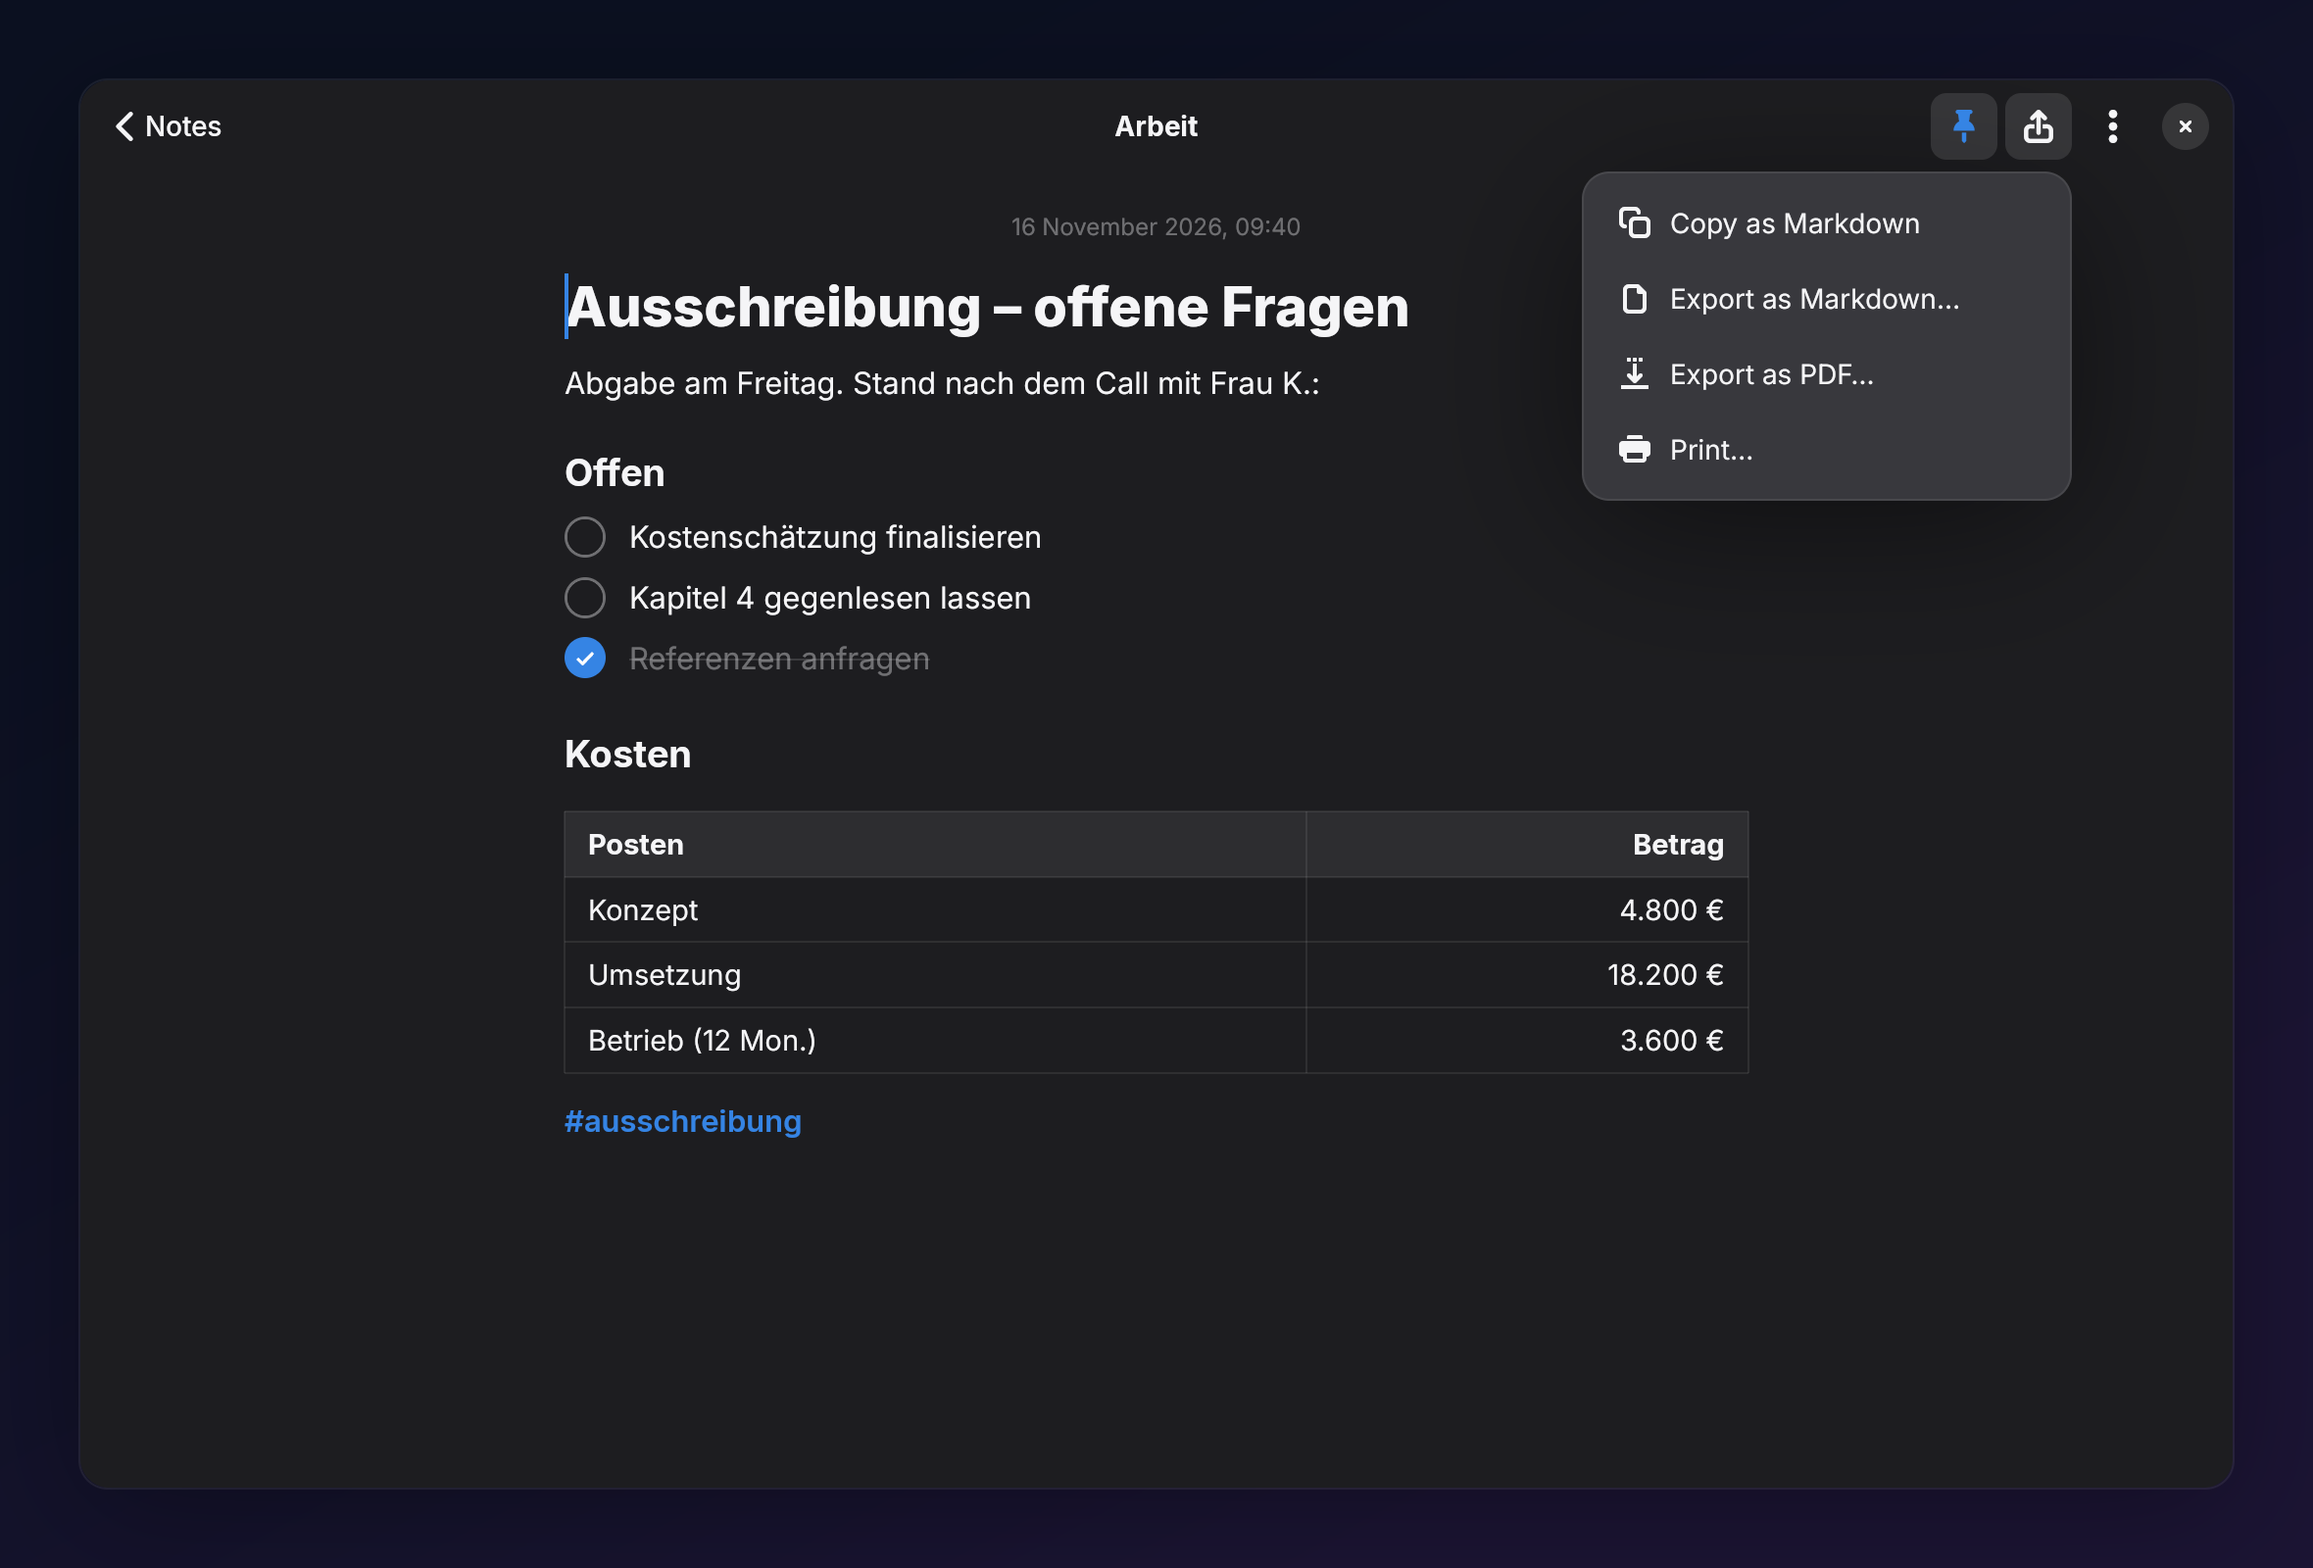
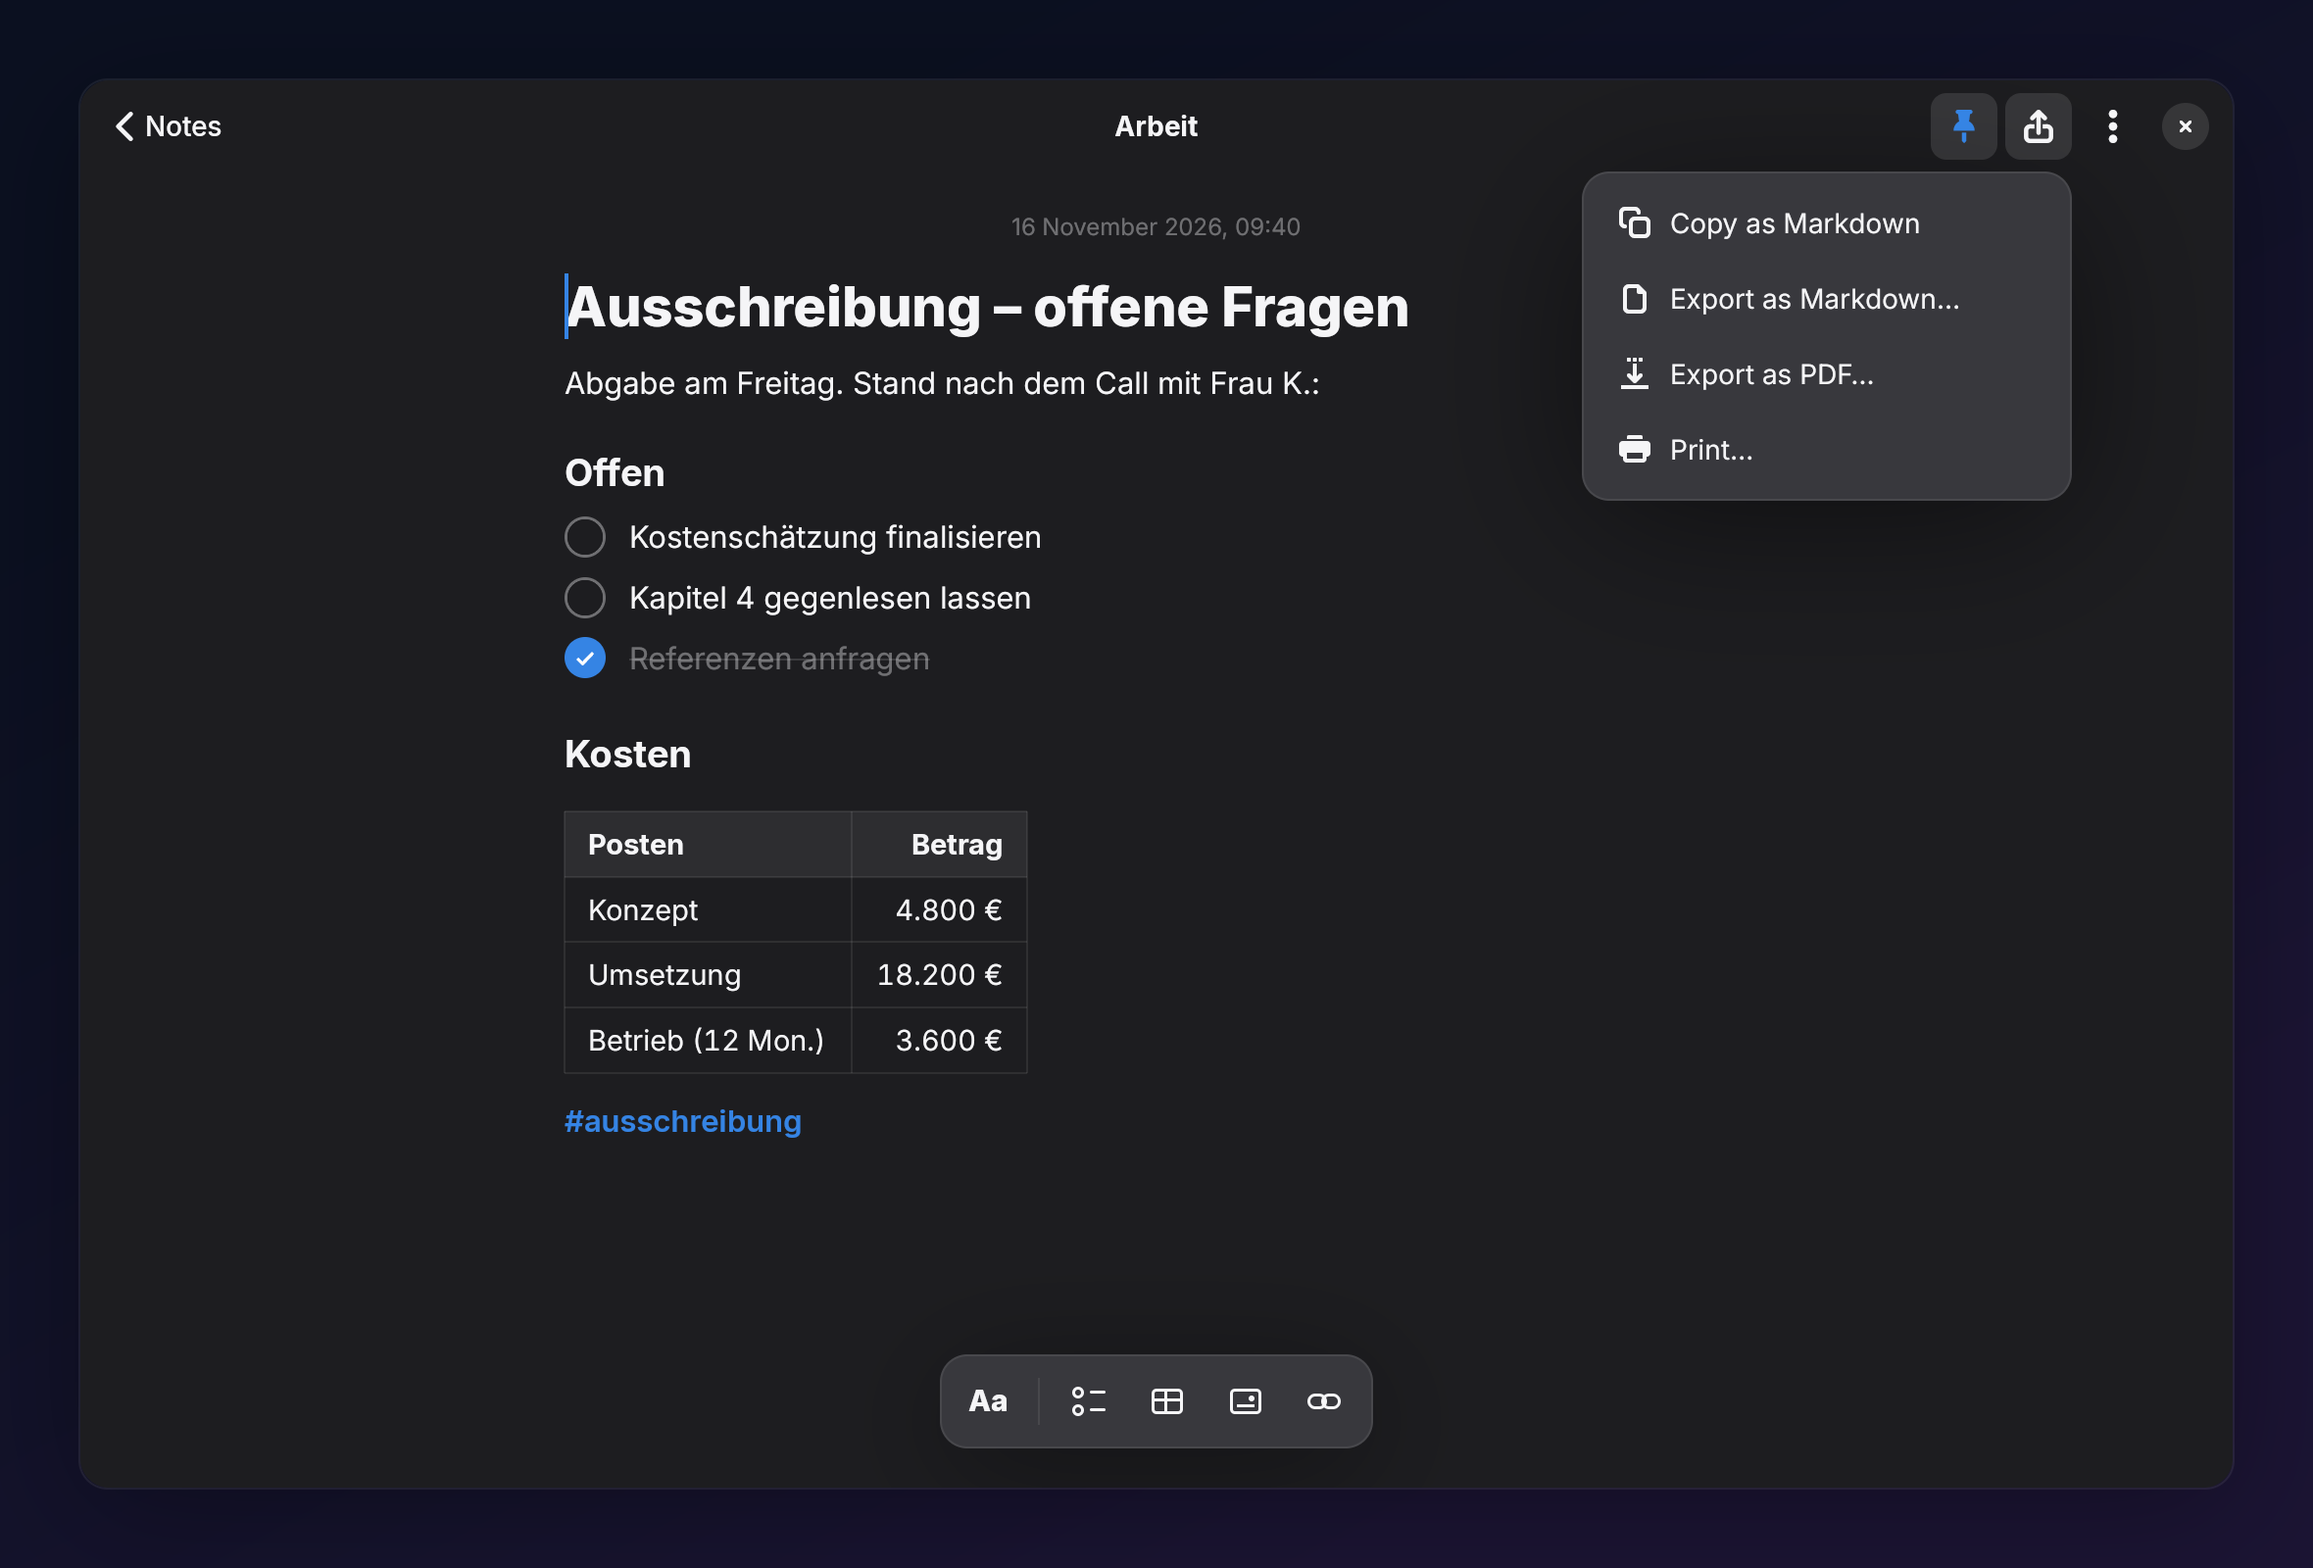
fix(quick): no format bar over the Quick Note's text
The editor's format bar (new in v0.0.4) floated over a third of the
380x300 window; plan 03 §8 wants only the editor and the footer. The
note view gets the editor's UI parts from its owner.

Screenshots: new scenes for the format bar on a selection, the slash
menu, the template menu, an inline image and the find bar; the note
scenes now show the format bar.

diff --git a/crates/sheaf/tests/screenshots.rs b/crates/sheaf/tests/screenshots.rs
@@ -24,12 +24,13 @@ use std::sync::{Arc, OnceLock};
 
 use fixture::{Look, Notes};
 use gpui::{
-    AnyWindowHandle, AppContext as _, BoxShadow, Context, Entity, HeadlessAppContext, IntoElement,
-    ParentElement as _, PlatformTextSystem, Render, Styled as _, Window, div, hsla,
-    linear_color_stop, linear_gradient, point, px, rgb, size,
+    AnyWindowHandle, AppContext as _, BoxShadow, Context, Entity, EntityInputHandler as _,
+    Focusable as _, HeadlessAppContext, IntoElement, ParentElement as _, PlatformTextSystem,
+    Render, Styled as _, Window, div, hsla, linear_color_stop, linear_gradient, point, px, rgb,
+    size,
 };
 use gpui_component::{ActiveTheme as _, Root, Theme};
-use gpui_markdown_editor::Command;
+use gpui_markdown_editor::{Command, MarkdownEditor, TextPos};
 use sheaf::app::actions::{OpenCommandPalette, ShowShortcuts};
 use sheaf::app::assets::Assets;
 use sheaf::app::chrome::AssumeClientDecorations;
@@ -139,6 +140,11 @@ const SCENES: &[(&str, Folder, Scene)] = &[
     ("templates-menu", Folder::Seeded, templates_menu),
     ("note-share", Folder::Seeded, note_share),
     ("note-backlinks", Folder::Seeded, note_backlinks),
+    ("note-format-bar", Folder::Seeded, note_format_bar),
+    ("note-slash", Folder::Seeded, note_slash),
+    ("note-template", Folder::Seeded, note_template),
+    ("note-image", Folder::Seeded, note_image),
+    ("note-find", Folder::Seeded, note_find),
 ];
 
 /// The start view as it opens.
@@ -245,6 +251,113 @@ fn note(stage: &mut Stage) {
     });
     let id = listing.expect("the fixture has the note");
     stage.update(|main, window, cx| main.open_note(id, String::new(), window, cx));
+}
+
+/// Opens the note whose title starts with `title`.
+fn open_titled(stage: &mut Stage, title: &str) {
+    let id = stage.cx.update(|cx| {
+        let gallery = stage.main.read(cx).gallery().read(cx);
+        gallery
+            .notes()
+            .iter()
+            .find(|note| note.title.starts_with(title))
+            .map(|note| note.id.clone())
+    });
+    let id = id.expect("the fixture has the note");
+    stage.update(|main, window, cx| main.open_note(id, String::new(), window, cx));
+}
+
+/// Runs `edit` on the open note's editor, with the keyboard in it.
+fn in_editor(
+    stage: &mut Stage,
+    edit: impl FnOnce(&mut MarkdownEditor, &mut gpui::Window, &mut gpui::Context<MarkdownEditor>),
+) {
+    stage.update(|main, window, cx| {
+        let note = main.note().expect("the note is open").clone();
+        let editor = note.read(cx).editor().clone();
+        editor.focus_handle(cx).focus(window, cx);
+        editor.update(cx, |editor, cx| edit(editor, window, cx));
+    });
+}
+
+/// Selects `from..to` in block `index` of the editor.
+fn select(
+    editor: &mut MarkdownEditor,
+    index: usize,
+    from: usize,
+    to: usize,
+    cx: &mut gpui::Context<MarkdownEditor>,
+) {
+    let block = editor.document().blocks()[index].id();
+    editor.__set_selection(
+        TextPos {
+            block,
+            offset: from,
+        },
+        TextPos { block, offset: to },
+        cx,
+    );
+}
+
+/// The format bar over a word selected in the text.
+fn note_format_bar(stage: &mut Stage) {
+    note(stage);
+    in_editor(stage, |editor, _, cx| select(editor, 1, 19, 38, cx));
+}
+
+/// The slash menu, opened by typing `/` on an empty line.
+fn note_slash(stage: &mut Stage) {
+    open_titled(stage, "Notch-Ideen");
+    in_editor(stage, |editor, _, cx| {
+        let last = editor.document().blocks().len() - 1;
+        let end = editor.document().blocks()[last].text().len();
+        select(editor, last, end, end, cx);
+    });
+    stage.update(|_, window, cx| {
+        let newline = cx
+            .build_action("markdown_editor::Newline", None)
+            .expect("the editor has the action");
+        window.dispatch_action(newline, cx);
+    });
+    in_editor(stage, |editor, window, cx| {
+        editor.replace_text_in_range(None, "/", window, cx);
+    });
+}
+
+/// The menu of templates that the slash menu's "Template" opens.
+fn note_template(stage: &mut Stage) {
+    templates_menu(stage);
+    stage.update(|main, _, cx| {
+        main.gallery()
+            .update(cx, |gallery, cx| gallery.set_popover(None, cx));
+    });
+    open_titled(stage, "Notch-Ideen");
+    stage.update(|main, window, cx| {
+        let note = main.note().expect("the note is open").clone();
+        note.update(cx, |note, cx| {
+            note.list_templates(point(px(480.), px(330.)), window, cx);
+        });
+    });
+}
+
+/// A note with an image from its attachments.
+fn note_image(stage: &mut Stage) {
+    open_titled(stage, "Shakshuka");
+}
+
+/// The editor's find bar, with the word that was selected as the query.
+fn note_find(stage: &mut Stage) {
+    note(stage);
+    in_editor(stage, |editor, window, cx| {
+        let kosten = editor
+            .document()
+            .blocks()
+            .iter()
+            .position(|block| block.text() == "Kosten")
+            .expect("the note has the heading");
+        select(editor, kosten, 0, 6, cx);
+        editor.command(Command::OpenFind, window, cx);
+    });
 }
 
 /// The note with the menu of its header open.

diff --git a/crates/sheaf/src/app/note/mod.rs b/crates/sheaf/src/app/note/mod.rs
@@ -56,7 +56,7 @@ use gpui::{
     Styled as _, Subscription, Task, Window, div, prelude::FluentBuilder as _, px,
 };
 use gpui_component::Theme;
-use gpui_markdown_editor::{DocMeta, EditorEvent, MarkdownEditor};
+use gpui_markdown_editor::{DocMeta, EditorEvent, MarkdownEditor, UiParts};
 use sheaf_core::i18n::tr;
 use sheaf_core::{CreateOptions, Note, NoteId, NoteMeta, Sort};
 
@@ -181,10 +181,13 @@ impl std::fmt::Debug for NoteView {
 impl EventEmitter<NoteEvent> for NoteView {}
 
 impl NoteView {
+    /// The view of note `id`, opened from the search `query`. `ui` is what the editor
+    /// shows of its own: the Quick Note window is too small for the format bar.
     pub fn new(
         library: Entity<Library>,
         id: NoteId,
         query: String,
+        ui: UiParts,
         window: &mut Window,
         cx: &mut Context<Self>,
     ) -> Self {
@@ -196,7 +199,7 @@ impl NoteView {
         let note = cx.weak_entity();
         let editor = cx.new(|cx| {
             let slash = vec![template::slash_item(note)];
-            let mut editor = MarkdownEditor::new(window, cx, setup::options(&lookup, slash));
+            let mut editor = MarkdownEditor::new(window, cx, setup::options(&lookup, slash, ui));
             editor.set_style(setup::style(cx), cx);
             editor
         });

diff --git a/crates/sheaf/src/app/quick.rs b/crates/sheaf/src/app/quick.rs
@@ -36,7 +36,7 @@ use gpui::{
     WindowOptions, div, prelude::FluentBuilder as _, px, size as size_of,
 };
 use gpui_component::{Root, Theme};
-use gpui_markdown_editor::EditorStyle;
+use gpui_markdown_editor::{EditorStyle, UiParts};
 use jiff::{SignedDuration, Timestamp};
 use sheaf_core::i18n::tr;
 use sheaf_core::{CreateOptions, NoteId};
@@ -289,7 +289,12 @@ impl QuickNoteView {
     /// Takes the note `id` into the window; `fresh` if it was just created for it.
     fn attach(&mut self, id: NoteId, fresh: bool, window: &mut Window, cx: &mut Context<Self>) {
         let library = self.library.clone();
-        let note = cx.new(|cx| NoteView::new(library, id, String::new(), window, cx));
+        // Plan 03 §8: only the editor and the footer, no format bar over the text.
+        let ui = UiParts {
+            format_bar: false,
+            ..UiParts::ALL
+        };
+        let note = cx.new(|cx| NoteView::new(library, id, String::new(), ui, window, cx));
         if fresh {
             note.update(cx, |note, _| note.mark_new());
         }

diff --git a/crates/sheaf/src/app/window.rs b/crates/sheaf/src/app/window.rs
@@ -20,6 +20,7 @@ use gpui::{
 use std::rc::Rc;
 
 use gpui_component::Root;
+use gpui_markdown_editor::UiParts;
 use sheaf_core::CreateOptions;
 use sheaf_core::NoteId;
 use sheaf_core::i18n::{ntr, tr};
@@ -202,7 +203,8 @@ impl MainWindow {
     ) {
         self.leave_note(window, cx, move |this, _, window, cx| {
             let library = this.library.clone();
-            let note = cx.new(|cx| NoteView::new(library, id, query.clone(), window, cx));
+            let note =
+                cx.new(|cx| NoteView::new(library, id, query.clone(), UiParts::ALL, window, cx));
             if fresh {
                 note.update(cx, |note, _| note.mark_new());
             }

diff --git a/crates/sheaf/src/app/note/setup.rs b/crates/sheaf/src/app/note/setup.rs
@@ -44,7 +44,7 @@ pub struct Lookup {
 
 pub type SharedLookup = Arc<Mutex<Lookup>>;
 
-pub fn options(lookup: &SharedLookup, slash_items: Vec<SlashItem>) -> EditorOptions {
+pub fn options(lookup: &SharedLookup, slash_items: Vec<SlashItem>, ui: UiParts) -> EditorOptions {
     let resolver: SrcResolver = {
         let lookup = lookup.clone();
         Arc::new(move |src| resolve(&lookup, src))
@@ -61,7 +61,7 @@ pub fn options(lookup: &SharedLookup, slash_items: Vec<SlashItem>) -> EditorOpti
         resolve_src: Some(resolver),
         completions: Some(completions),
         slash_items,
-        ui: UiParts::ALL,
+        ui,
         ..Default::default()
     }
 }
